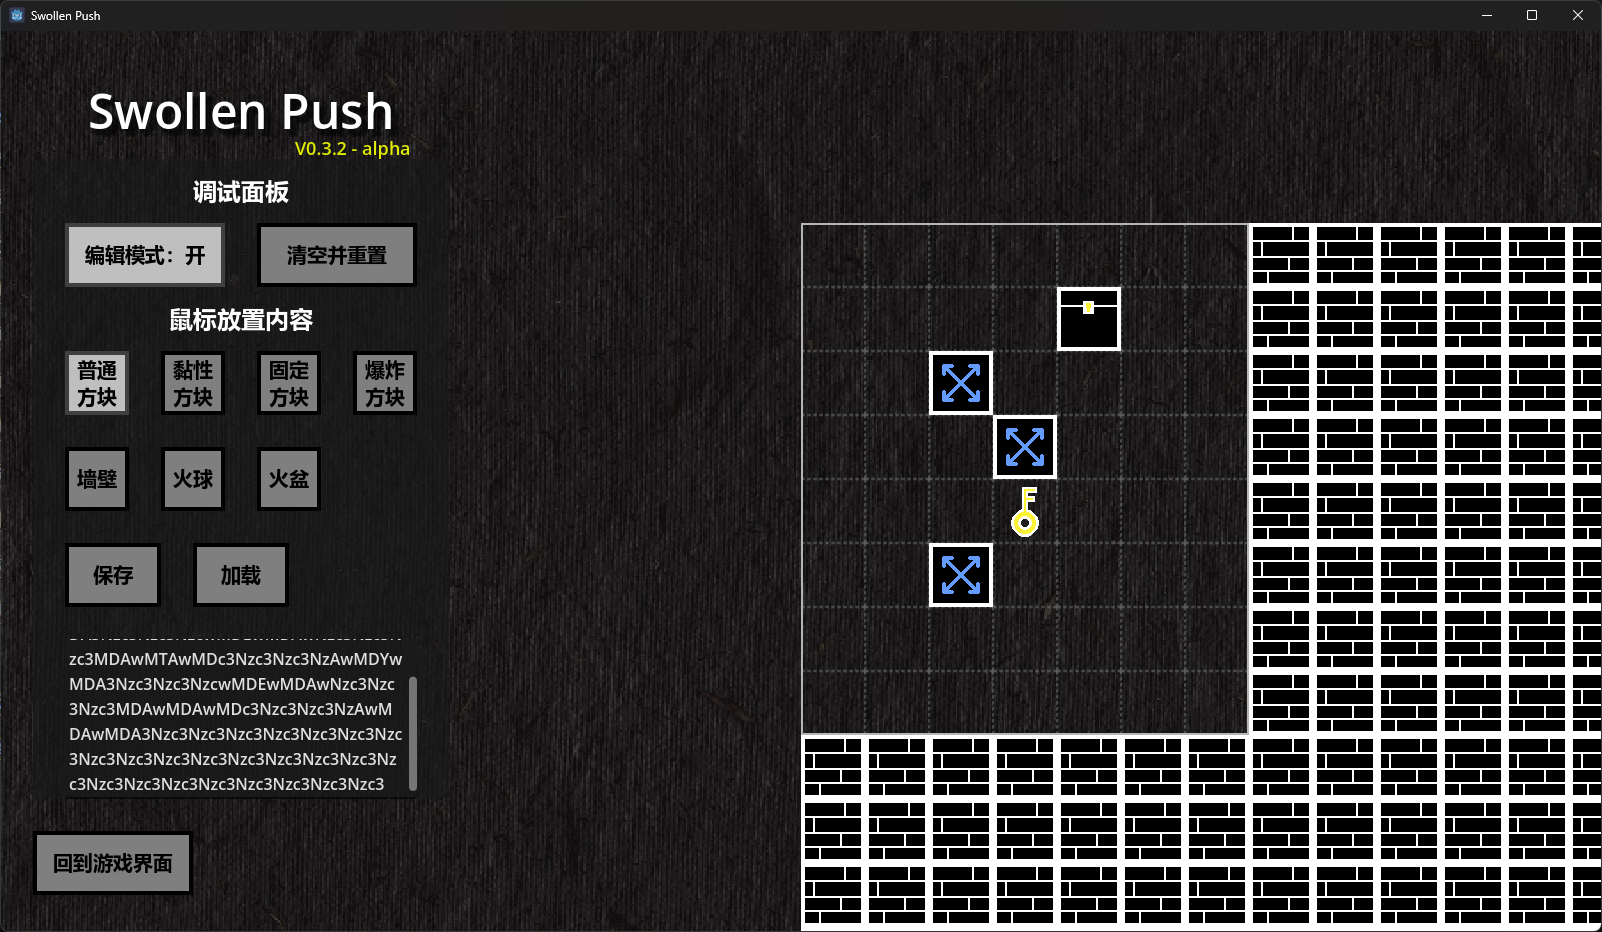
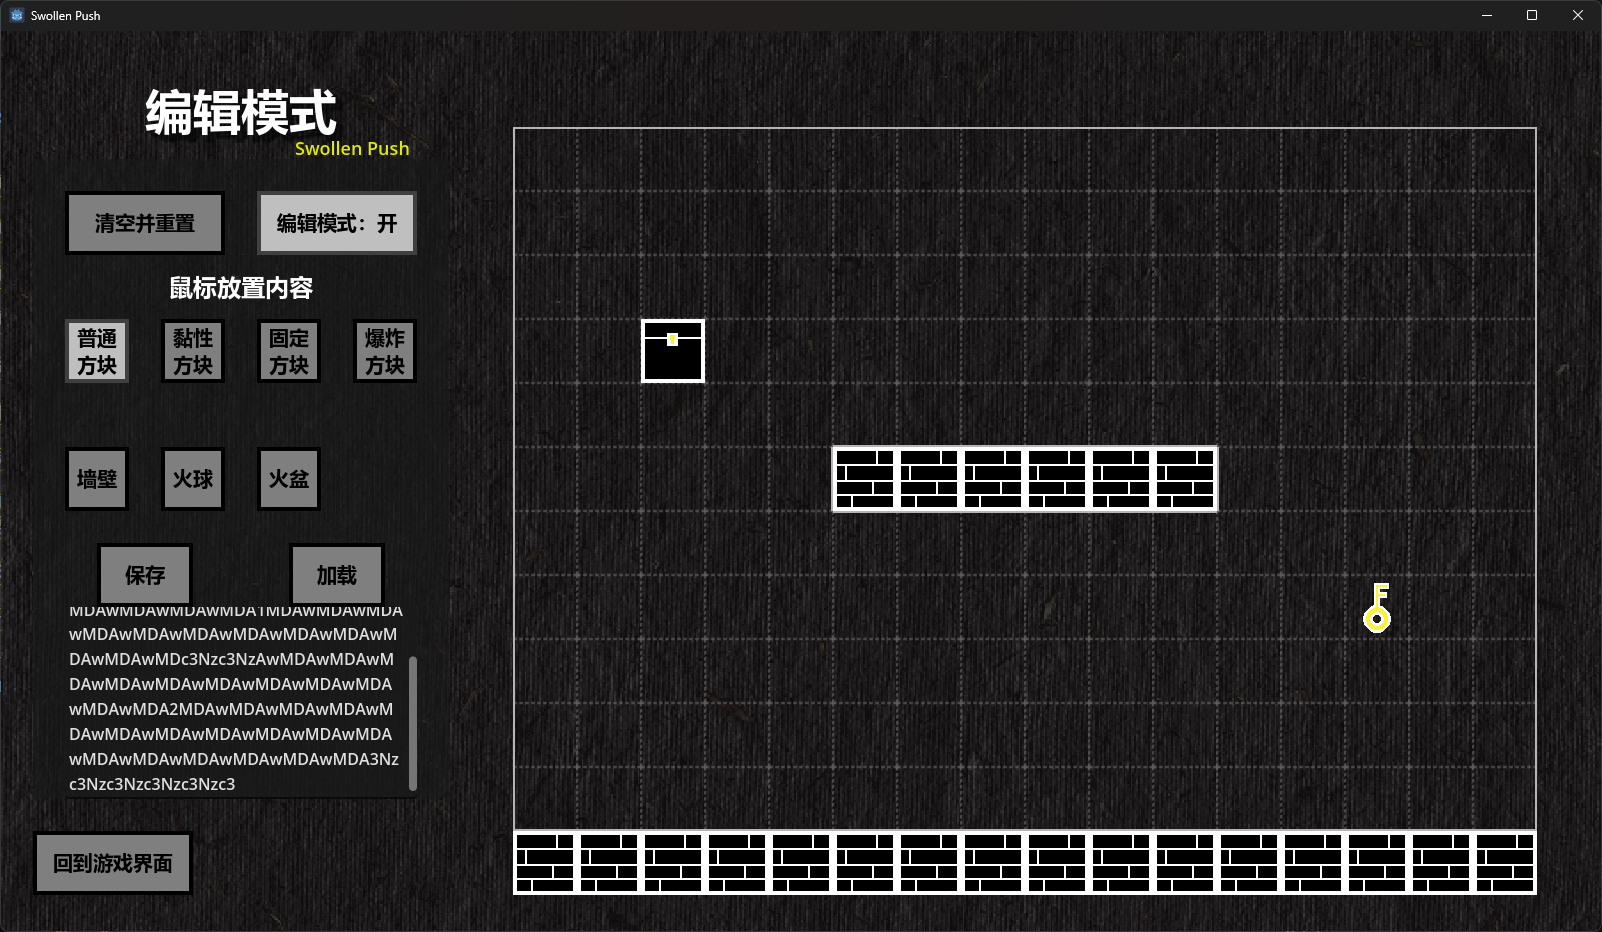
update README.md

diff --git a/README.md b/README.md
@@ -1,56 +1,66 @@
-# Swollen Push
-（中文名：胀缩）
+# Swollen Push（胀缩）
 
-这是一个为Gamejam而准备的推箱子游戏。当前版本：`0.3.3`
+> **早期测试中** · 当前版本 `0.3.4`
 
-**内置一系列关卡，已经可以体验了！**
+一个为 Game Jam 准备的推箱子游戏。游戏目标是**将火球推入火盆**，并利用方块的膨胀与收缩机制推动火球。
 
-## 操作说明
-鼠标左键：膨胀方块
+---
 
-鼠标右键：收缩方块
+## 游戏操作
 
-[编辑模式]
+| 按键           | 作用               |
+| -------------- | ------------------ |
+| 鼠标左键       | 膨胀方块           |
+| 鼠标右键       | 收缩方块           |
+| R              | 重新开始当前关卡   |
 
-在游戏界面下按“P”可以切出调试面板和编辑模式入口；
+## 编辑模式
 
-鼠标左键：放置内容
+在游戏界面按下 `P` 键，可打开调试面板并进入编辑模式。
 
-鼠标右键：清除内容
+**编辑操作**
 
-目前可以设置的物体有：方块（普通、黏性、固定、爆炸）、箱子/火球、钥匙/火盆，以及墙壁（在游戏界面会显示为地图边界）；
+| 操作           | 作用               |
+| -------------- | ------------------ |
+| 鼠标左键       | 放置当前选中的物体 |
+| 鼠标右键       | 清除物体           |
 
+**可放置物体**
 
-保存：将当前地图保存为一个Base64的字符串；
+- 方块（普通 / 黏性 / 固定 / 爆炸）
+- 箱子 / 火球
+- 钥匙 / 火盆
+- 墙壁（在游戏界面中显示为地图边界）
 
-读取：将地图字符串复制到文本框中即可读取；
+**地图保存与读取**
 
-## 规则
-游戏里有三种物体：**方块、火球和火盆**；
+- **保存**：将当前地图编码为 Base64 字符串
+- **读取**：将地图字符串粘贴到文本框后读取
 
-游戏的目标是**把火球推到火盆里**；
+---
 
-**方块可以改变大小**：鼠标左键方块使其膨胀，右键使其收缩——可以利用这一点推动火球；
+## 游戏规则
 
-方块的大小有1x1、3x3、5x5三种形态；
+- 游戏包含三种核心物体：**方块**、**火球**、**火盆**
+- 目标：把火球推到火盆所在格，二者相遇即通关
+- 方块有 **1×1**、**3×3**、**5×5** 三种尺寸，可通过鼠标左/右键改变大小
+- 方块不能超出地图边界
+- 火球和火盆均可被推动或被其他物体黏连
 
-方块无法超出地图边界；
+### 方块类型
 
-火球和火盆都可以被推动或黏连，当二者在一格中相遇时即为通关；
+| 类型     | 特性                                                                 |
+| -------- | -------------------------------------------------------------------- |
+| 普通方块 | 可被其他方块推动或黏住                                               |
+| 黏性方块 | 可黏住与其接触的物体（固定方块除外）                                 |
+| 固定方块 | 无法被推动或黏住                                                     |
+| 爆炸方块 | 额外膨胀一次后爆炸消失；爆炸无视边界和固定方块，但无法推动固定方块 |
 
-方块有**四种**类型：**普通方块、黏性方块、固定方块、爆炸方块**；
+> 0.3.3 更新：现在你会在某些关卡中遇到一种奇特的鸟类，它可以变化为方块并被放置在地图上。
 
-普通方块可以被其它方块推动或黏住；
+---
 
-黏性方块可以黏住其接触到的物体，除了固定方块；
-
-固定方块无法被其它方块推动和黏住；
-
-爆炸方块具有一次额外膨胀，且在此膨胀后会爆炸消失，除此之外与普通方块无异；爆炸可以无视边界和固定方块膨胀，但推不动固定方块；
-
-**现在新增了可以自由放置方块的关卡......**
-
-关卡的json格式：
+## 关卡格式（JSON）
 
 ```json
 "TEST-1": {
@@ -64,10 +74,15 @@
     }
 }
 ```
+- `TEST-1`: 关卡的标题
+- `data`：Base64 编码的地图数据
+- `hint`：关卡提示文本
+- `quota`：各类型方块的可使用数量
+
+---
 
 ## 界面展示
 
 ![游戏界面](./pic/01.png)
 
 ![编辑界面](./pic/02.png)
-
